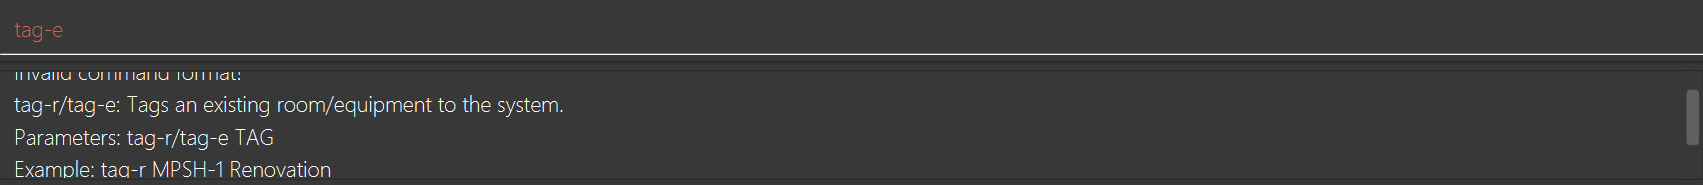
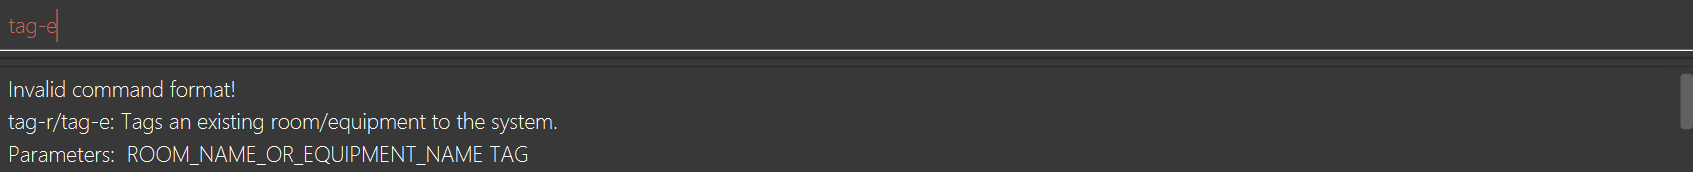
Update UG

diff --git a/src/main/java/seedu/address/logic/commands/DeleteTagCommand.java b/src/main/java/seedu/address/logic/commands/DeleteTagCommand.java
@@ -17,7 +17,8 @@ public class DeleteTagCommand extends Command {
     public static final String COMMAND_WORD2 = "untag-e";
     public static final String MESSAGE_USAGE = COMMAND_WORD + "/" + COMMAND_WORD2
             + ": untags an existing tag from an existing room in the system.\n"
-            + "Parameters: " + COMMAND_WORD + "/" + COMMAND_WORD2 + " TAG\n"
+            + "Parameters: "
+            + " ROOM_NAME_OR_EQUIPMENT_NAME TAG\n"
             + "Example: " + COMMAND_WORD + " MPSH-1 "
             + "Renovation\n"
             + COMMAND_WORD2 + " "

diff --git a/src/main/java/seedu/address/logic/commands/AddTagCommand.java b/src/main/java/seedu/address/logic/commands/AddTagCommand.java
@@ -19,7 +19,8 @@ public class AddTagCommand extends Command {
 
     public static final String MESSAGE_USAGE = COMMAND_WORD + "/" + COMMAND_WORD2
             + ": Tags an existing room/equipment to the system.\n"
-            + "Parameters: " + COMMAND_WORD + "/" + COMMAND_WORD2 + " TAG\n"
+            + "Parameters: "
+            + " ROOM_NAME_OR_EQUIPMENT_NAME TAG\n"
             + "Example: " + COMMAND_WORD + " MPSH-1 "
             + "Renovation\n"
             + COMMAND_WORD2 + " "

diff --git a/src/main/java/seedu/address/logic/commands/FilterTagCommand.java b/src/main/java/seedu/address/logic/commands/FilterTagCommand.java
@@ -18,7 +18,7 @@ public class FilterTagCommand extends Command {
 
     public static final String MESSAGE_USAGE = COMMAND_WORD + "/" + COMMAND_WORD2
             + ": Filters out all room/equipment by tag\n"
-            + "Parameters: " + COMMAND_WORD + "/" + COMMAND_WORD2 + " TAG\n"
+            + "Parameters: " + " TAG\n"
             + "Example: " + COMMAND_WORD + " IHG\n"
             + COMMAND_WORD2 + " IHG";
 

diff --git a/docs/UserGuide.md b/docs/UserGuide.md
@@ -760,8 +760,7 @@ Tag equipment as e.g., `tag-e Wilson-Evolution IHG` during competition weeks to 
 ![tag-e_success.png](images/tag-e_success.png)
 ![tag-r_success](images/tag-r_success.png)
 * Failure <br>
-![tag_failure](images/tag_failure.png)
-
+![tag_failure.png](images/tag_failure.png)
 
 
 **Possible errors:**
@@ -806,6 +805,7 @@ Use this command to remove outdated or incorrect tags from equipment or rooms.
 * Failure <br>
 ![untag_failure](images/untag_failure.png)
 
+
 **Possible errors:**
 * *Invalid command:* Extra input.
 * *Invalid name/tag:* Using spaces, special characters (e.g., `#`, `@` etc.), or leaving fields blank.
@@ -840,7 +840,7 @@ Use this command to quickly find all equipment or rooms associated with a partic
   ![filter-e_success](images/filter-e_success.png)
   ![filter-r_success](images/filter-r_success.png)
 * Failure <br>
-  ![filter_failure](images/filter_failure.png)
+![filter_failure.png](images/filter_failure.png)
 
 **Possible errors:**
 * *Nothing tagged:* No equipment or rooms found with the specified tag
